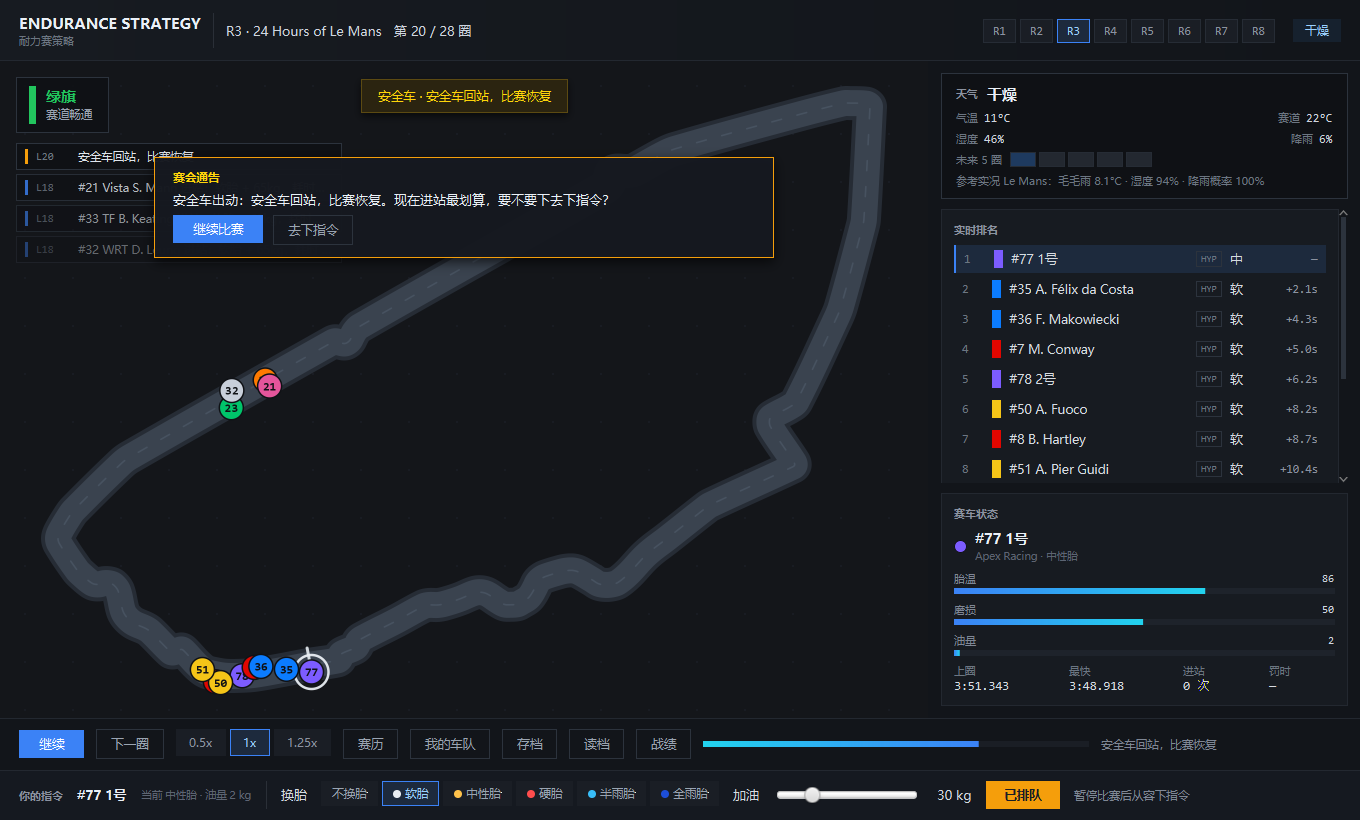
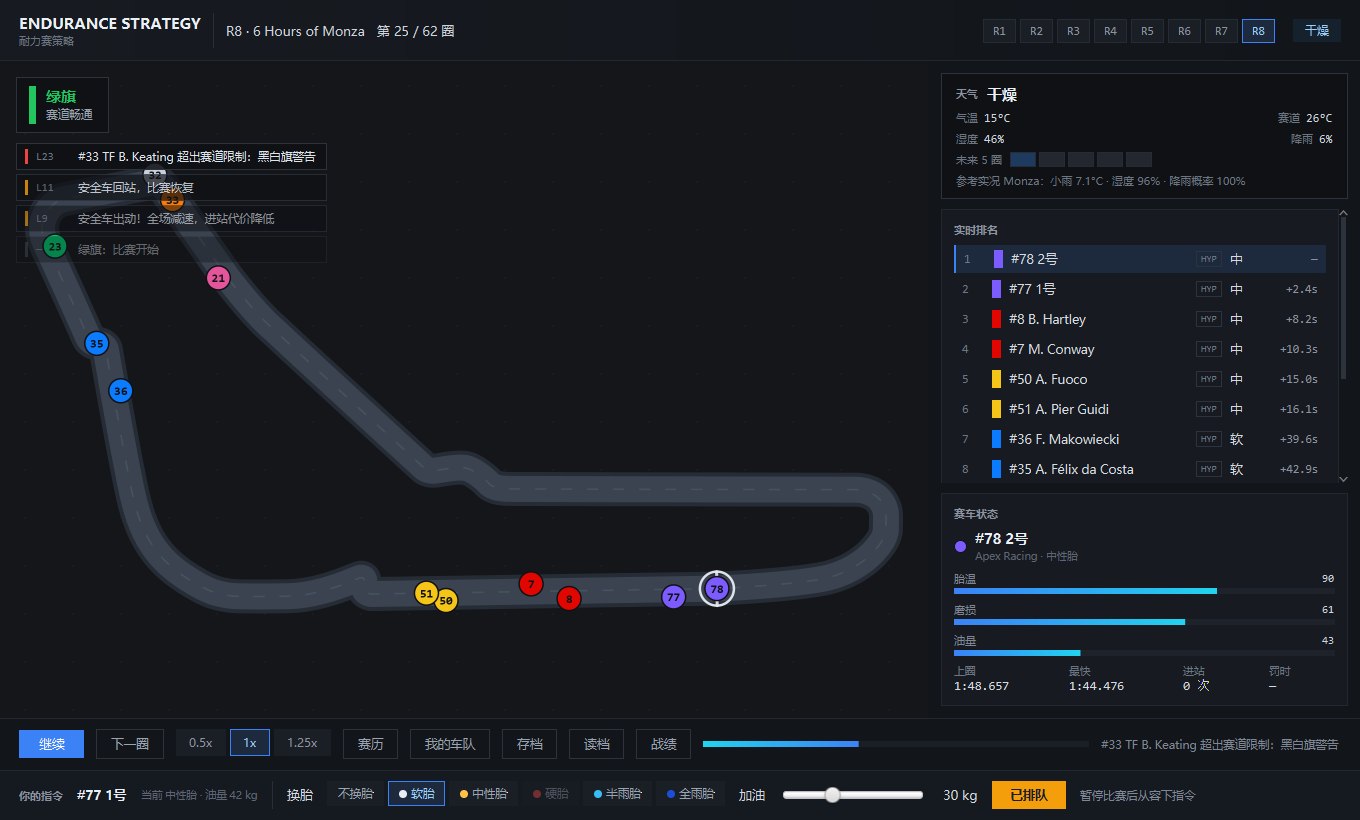
chore: 清除虚构车手名，重新生成全部截图
README 和截图里残留着早期版本编的中文车手名，与 data/teams.json
（玩家车队是「1号/2号」，对手是真实 WEC 车手）对不上。

文本
- README「怎么玩」：陈奕舟 -> #77 Apex「1号」，顺带把「其余七台车」改为 11 台
- README 界面示意图：周子墨 -> 1号 / 2号
- Format.java 注释示例：陈奕舟 -> M. Conway
- ReviewCheck 里的 JSON 往返用例改用中性示例串

截图（19 张全部重新生成）
旧图是早期数据渲的：周子墨、林一帆、吴昊、赵清源、陈奕舟、许承、
M. Rossi、L. Andersen、Nordic Motorsport —— 现在全部换成
data/ 里的真实车队与车手，赛道形状也换成了当前的 SVG 版本。

顺手修了快照工具的两个影响观感的问题
- SnapshotTool 推进时替玩家车按需排队进站：
  否则演示图里的玩家车会一路把油烧干，结算图显示「你的车退赛了」
- MainWindow.clearToasts()：同时隐藏顶部浮动通告和赛道通告横幅，
  它们正好盖在赛道图中央，把画面糊住

全量 182 项自测通过。

diff --git a/src/main/java/com/endurance/dev/SnapshotTool.java b/src/main/java/com/endurance/dev/SnapshotTool.java
@@ -47,10 +47,16 @@ public final class SnapshotTool {
                     // 负数 = 一直推进到有重大事件（安全车 / 红旗）为止
                     for (int i = 0; i < 80 && !window.getSimulator().isSafetyCarActive()
                             && window.getSimulator().redFlagLaps() == 0; i++) {
+                        topUpPlayer(window, data);
                         window.getSession().advance(1);
                     }
                 } else {
-                    window.getSession().advance(laps);
+                    // 逐圈推进并顺手替玩家车安排进站：
+                    // 否则演示图里的玩家车会一路把油烧干退赛，画面很难看
+                    for (int i = 0; i < laps; i++) {
+                        topUpPlayer(window, data);
+                        window.getSession().advance(1);
+                    }
                 }
                 if (window.getSimulator().liveStandings().size() > 0) {
                     window.selectCar(window.getSimulator().liveStandings().get(0).number());
@@ -69,6 +75,8 @@ public final class SnapshotTool {
                 window.getRoot().resize(width, height);
                 window.getRoot().layout();
                 window.refresh();
+                // 清掉浮动通告：它们会盖在赛道图上，截图很难看
+                window.clearToasts();
 
                 WritableImage image = window.getRoot()
                         .snapshot(new SnapshotParameters(), new WritableImage(width, height));
@@ -85,6 +93,23 @@ public final class SnapshotTool {
         latch.await();
         Platform.exit();
         System.exit(failure[0] == null ? 0 : 2);
+    }
+
+    /** 演示用：玩家车油量见底前替它排一条进站指令，免得截图里总是"退赛"。 */
+    private static void topUpPlayer(MainWindow window, GameData data) {
+        var lineup = window.getLineup();
+        if (lineup == null || lineup.playerCar() == null || lineup.playerStrategy() == null) {
+            return;
+        }
+        var car = lineup.playerCar();
+        if (car.isRetired() || lineup.playerStrategy().hasPending()) {
+            return;
+        }
+        // 只剩约 12 圈的油就补满，整场比赛因此会自然出现两次进站
+        double reserve = window.getSimulator().config().track().fuelPerLap() * 12 + 5;
+        if (car.fuelKg() < reserve) {
+            lineup.playerStrategy().queue(new com.endurance.sim.PitDecision(data.hard(), 70));
+        }
     }
 
     private static void writePng(WritableImage image, File target) throws Exception {

diff --git a/src/main/java/com/endurance/dev/ReviewCheck.java b/src/main/java/com/endurance/dev/ReviewCheck.java
@@ -53,14 +53,14 @@ public final class ReviewCheck {
     /** JSON 写出后能被自己的解析器读回来。 */
     private static void testJsonWriter() {
         String json = JsonWriter.obj()
-                .put("name", "陈奕舟 \"测试\"")
+                .put("name", "示例 \"引号\"")
                 .put("value", 12.5)
                 .put("count", 7)
                 .put("flag", true)
                 .put("list", JsonWriter.arr().add(1).add(2).add("x"))
                 .toJson();
         var node = Json.parse(json);
-        check("JSON 往返：字符串", node.get("name").asString().equals("陈奕舟 \"测试\""));
+        check("JSON 往返：字符串", node.get("name").asString().equals("示例 \"引号\""));
         check("JSON 往返：小数", Math.abs(node.get("value").asDouble() - 12.5) < 1e-9);
         check("JSON 往返：整数", (int) node.get("count").asDouble() == 7);
         check("JSON 往返：布尔", node.get("flag").asBool());

diff --git a/src/main/java/com/endurance/ui/MainWindow.java b/src/main/java/com/endurance/ui/MainWindow.java
@@ -49,6 +49,23 @@ public class MainWindow {
 
     private final StackPane centerArea = new StackPane();
     private final VBox toastLayer = new VBox(6);
+
+    /**
+     * 开发期快照用：清掉顶部浮动通告。
+     *
+     * <p>存档/读档/事件通知会盖在赛道图上，截图时把画面糊住。
+     * 这里把层清空并把「已播报到第几条」推到最新，避免下一次 refresh 又补回来。</p>
+     */
+    public void clearToasts() {
+        toastLayer.getChildren().clear();
+        // 赛道通告是单独一层，不清掉会正好盖在赛道图中央
+        majorBanner.setVisible(false);
+        majorBanner.setManaged(false);
+        if (simulator != null) {
+            toastedEvents = simulator.events().size();
+        }
+    }
+
     private final VBox resultOverlay = new VBox(10);
     /** 左上角赛事播报（旗语下面）。 */
     private final EventFeed eventFeed = new EventFeed();

diff --git a/src/main/java/com/endurance/ui/Format.java b/src/main/java/com/endurance/ui/Format.java
@@ -47,7 +47,7 @@ public final class Format {
         return String.format("+%.1fs", seconds);
     }
 
-    /** 车手短标签：#7 陈奕舟。 */
+    /** 车手短标签：#7 M. Conway。 */
     public static String carLabel(Car car) {
         return "#" + car.number() + " " + car.driverName();
     }

diff --git a/README.md b/README.md
@@ -87,7 +87,7 @@ client.bat                       :: 联机客户端，连本机服务器
 
 ## 怎么玩
 
-1. `run.bat` 启动，你是 **#77 Apex 陈奕舟** 的车队策略师，其余七台车是真实 WEC 车队的 AI
+1. `run.bat` 启动，你是 **#77 Apex「1号」** 的车队策略师，其余 11 台车是真实 WEC 车队的 AI
 2. 进游戏先是**暖胎圈**，看清局面后点「跳过暖胎圈」发车；1x 下一圈约 17 秒
 3. 暂停后，底部指令条挑轮胎、拖加油量、点 **本圈进站** → 显示"已排队"，下一圈生效
 4. 安全车出动时全场减速、**进站代价只剩 35%**，是最划算的进站窗口
@@ -275,8 +275,8 @@ Heart of Racing（Aston Martin Vantage）、Team WRT（BMW M4）、TF Sport（Co
 │ ENDURANCE STRATEGY │ R6 · 6 Hours of Fuji · 第 26/63 圈 · 干燥  │
 ├──────────────────────────────────────────┬───────────────────┤
 │                                          │  实时排名          │
-│          赛道俯视图（JavaFX Canvas）        │  1 #1 周子墨  —    │
-│          小车按车队色 + 车号沿赛道跑          │  2 #2 ...  +0.5s   │
+│          赛道俯视图（JavaFX Canvas）        │  1 #77 1号   —    │
+│          小车按车队色 + 车号沿赛道跑          │  2 #78 2号   +0.5s │
 │                                          ├───────────────────┤
 │                                          │  赛车状态          │
 │                                          │  胎温 / 磨损 / 油量 │
